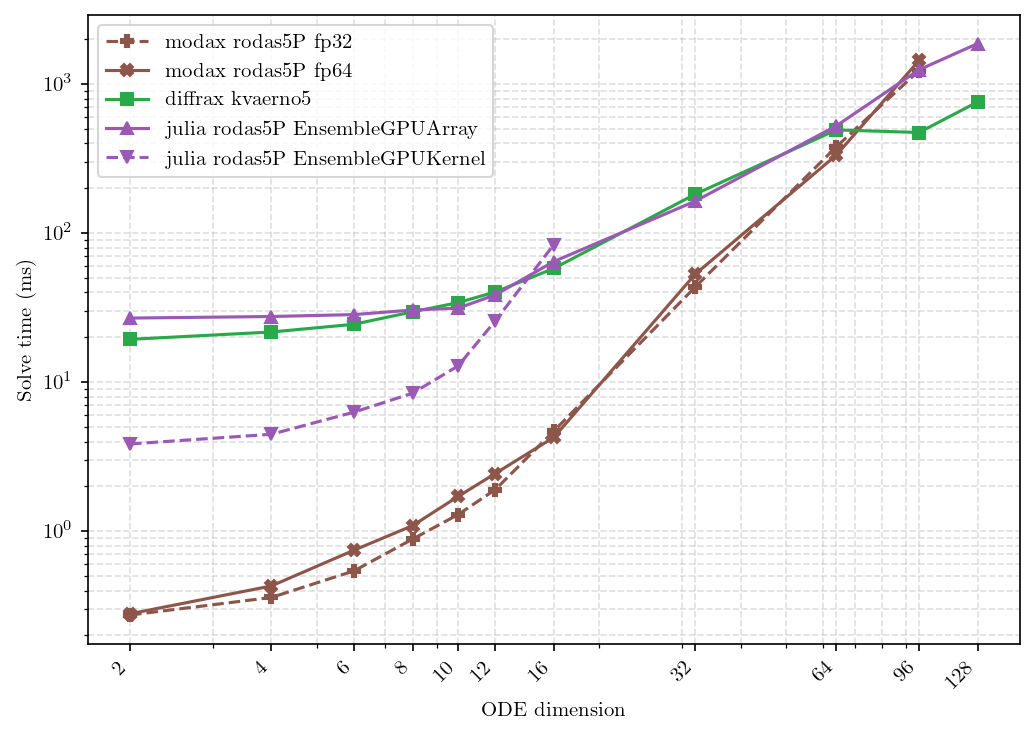
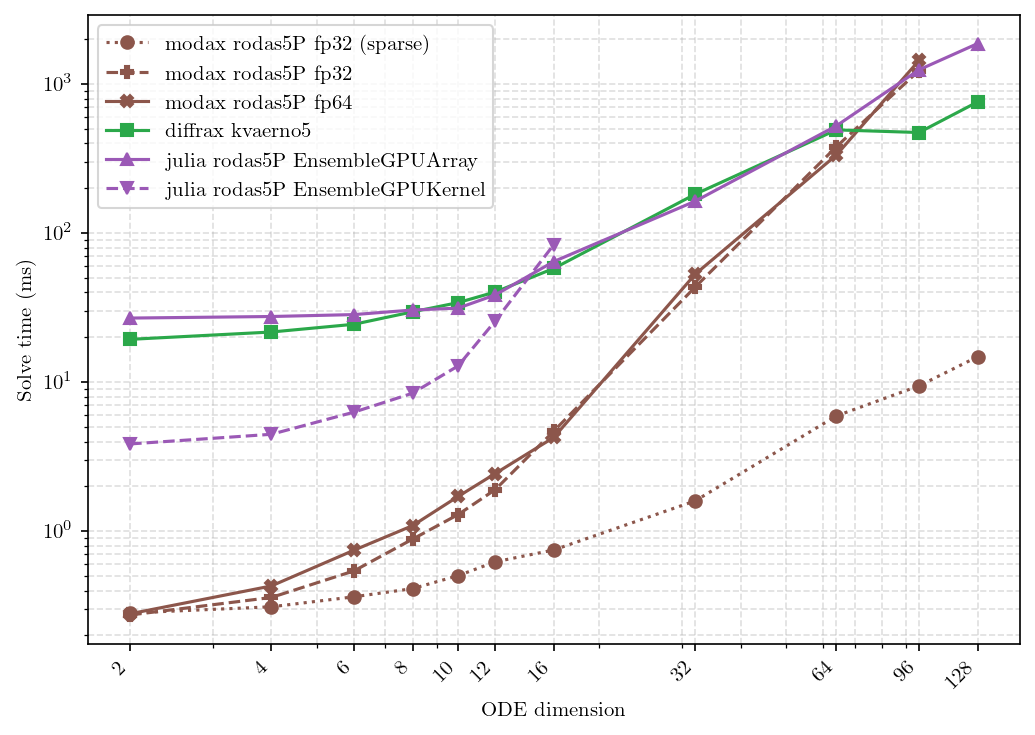
Add a sparse Rodas5P fp32 line to the stiff VDP dimensionality benchmark
The stiff VDP dimensionality sweep now also times modax Rodas5P fp32 handed the lattice's Jacobian sparsity pattern from vdp.make_sparsity, which buys it one Enzyme sweep per colour of the pattern and the compiled sparse LU, beside the dense fp32 and fp64 cases it already had. Measured on the RTX 4070 SUPER, the sparse case is the fastest line at every dimension and pulls away as the dimension grows: 1.6 ms at 32 dimensions against 43 ms dense, 5.9 ms at 64 against 380 ms, 9.5 ms at 96 against 1232 ms, and 14.8 ms at 128 where both dense cases exceed the case timeout.

diff --git a/benchmarks/stiff_vdp_dimensionality/main.py b/benchmarks/stiff_vdp_dimensionality/main.py
@@ -2,8 +2,10 @@
 
 Sweeps ODE dimension from 2 to 128 (n_osc = 1 to 64) on a log scale with a
 fixed ensemble of 1000 identical trajectories and records solve time for modax
-Rodas5P with fp32 and fp64 LU precision, Diffrax Kvaerno5, and Julia Rodas5P
-with both DiffEqGPU ensemble backends. A point that fails, or does not compile
+Rodas5P with fp32 and fp64 LU precision, modax Rodas5P fp32 handed the
+lattice's Jacobian sparsity pattern (one Enzyme sweep per colour and the
+compiled sparse LU), Diffrax Kvaerno5, and Julia Rodas5P with both DiffEqGPU
+ensemble backends. A point that fails, or does not compile
 and solve within the case timeout, is recorded as such and omitted from the
 plot. Outputs a CSV and a log-log plot named after the GPU.
 
@@ -47,7 +49,13 @@ def _problem(dim: int) -> Problem:
     y0, params = vdp.make_scenario(
         n_osc, _ENSEMBLE_SIZE, divergence=IDENTICAL_DIVERGENCE
     )
-    return Problem(ode_fn, y0, params, julia_system_config={"n_osc": n_osc})
+    return Problem(
+        ode_fn,
+        y0,
+        params,
+        julia_system_config={"n_osc": n_osc},
+        sparsity=vdp.make_sparsity(n_osc),
+    )
 
 
 BENCHMARK = SweepBenchmark(
@@ -60,6 +68,15 @@ BENCHMARK = SweepBenchmark(
     julia_solve=julia_rodas5P_solve,
     julia_system="vdp",
     cases=(
+        SweepCase(
+            key="modax rodas5P fp32 (sparse)",
+            color="#8c564b",
+            marker="o",
+            linestyle=":",
+            solve_fn=rodas5P_solve,
+            kwargs={**_SOLVER_KWARGS, "lu_precision": "fp32"},
+            sparse=True,
+        ),
         SweepCase(
             key="modax rodas5P fp32",
             color="#8c564b",
